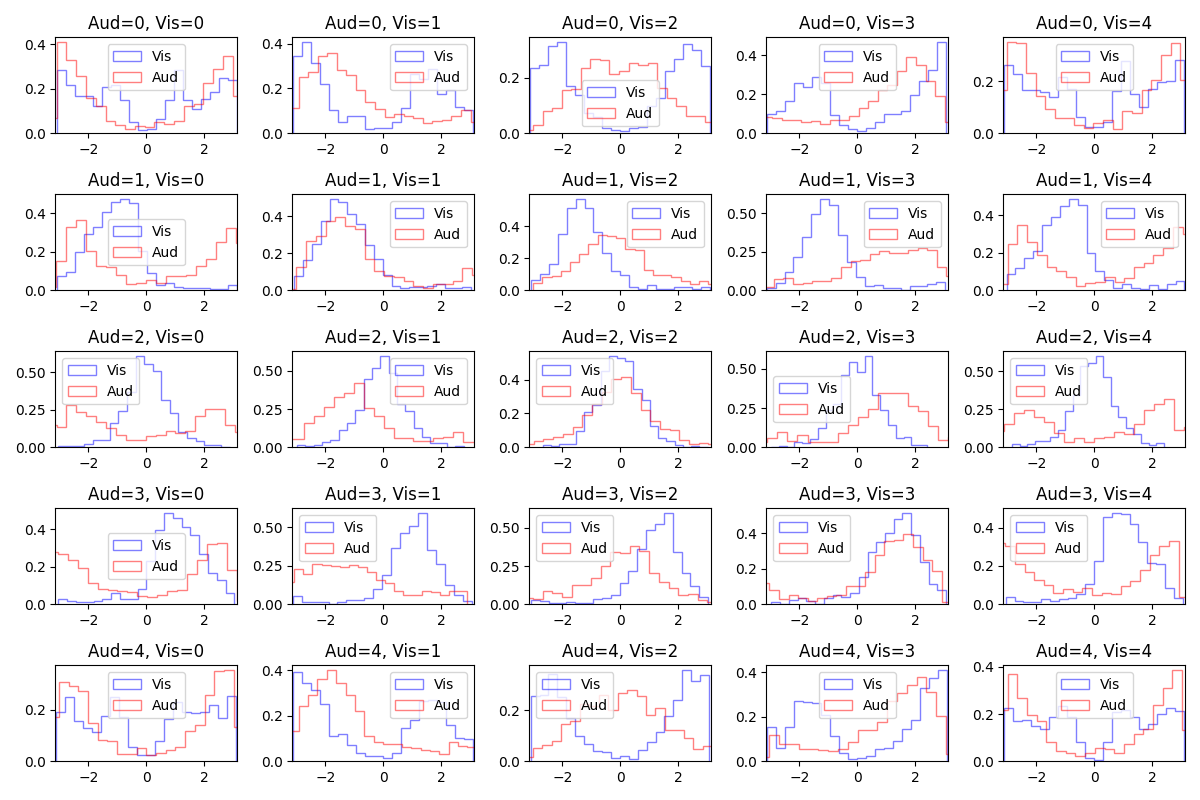
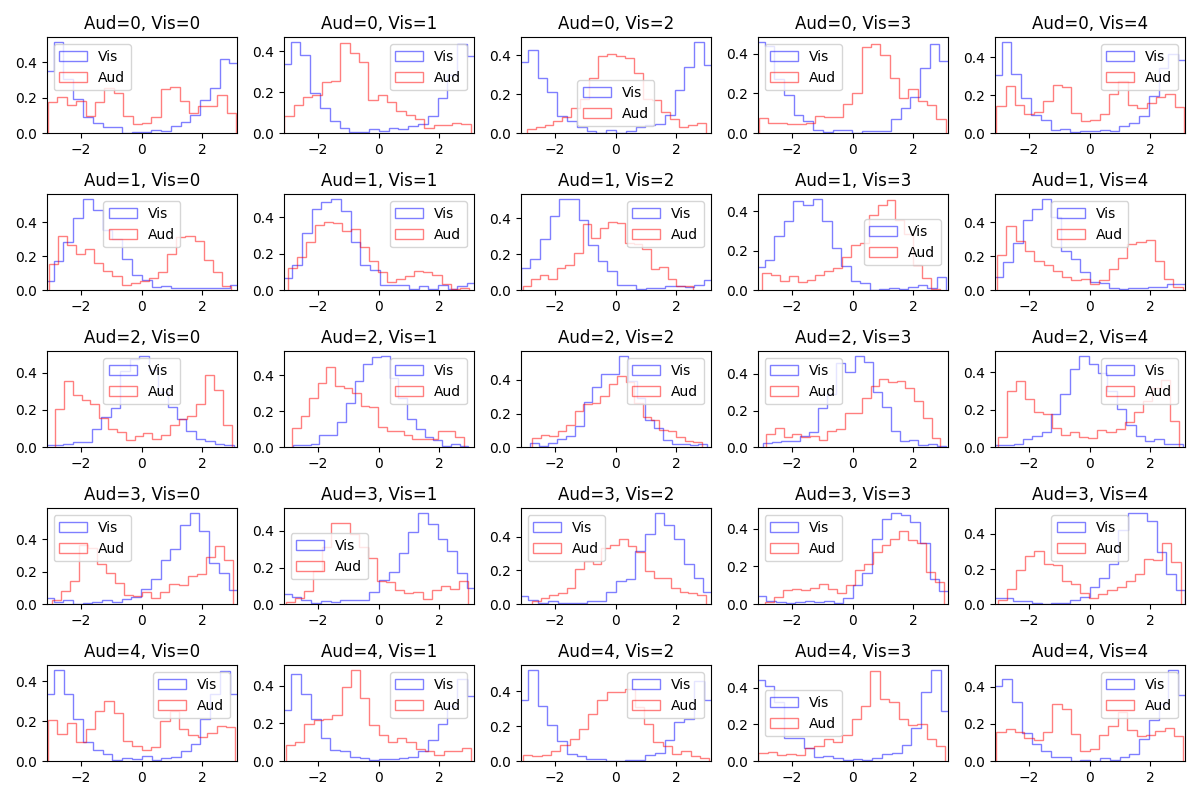
refactor code for consistent function signatures

diff --git a/von_mises_causal_inference.py b/von_mises_causal_inference.py
@@ -54,10 +54,10 @@ class VonMisesCausalInference(causal_inference.CausalInference):
         self.simulate = simulate
         self.s_domain = np.linspace(-np.pi, np.pi, 1000).reshape(1, 1, 1, -1)
 
-    def fusion_estimate(self, x_a, x_v, sigma_a, sigma_v, mu_p, sigma_p, simulate=False, return_sigma=False):
+    def fusion_estimate(self, x_v, x_a, sigma_v, sigma_a, mu_p, sigma_p, simulate=False, return_sigma=False):
         """
         Compute the MAP estimate in the fusion case (combined sensory processing).
-        The posterior p(s|x_a, x_v) \propto p(x_a, x_v|s)p(s) = p(x_a|s)p(x_v|s)p(s) with p(s) as the
+        The posterior p(s|x_v, x_a) \propto p(x_v, x_a|s)p(s) = p(x_a|s)p(x_v|s)p(s) with p(s) as the
         prior and p(x_a|s), p(x_v|s) as the likelihoods.
         The prior is currently assumed uniform and its parameters are not used.
 
@@ -80,8 +80,8 @@ class VonMisesCausalInference(causal_inference.CausalInference):
             return mu_c, kappa_c
         return mu_c
     
-    def fusion_posterior_params(self, s_a, s_v, sigma_a, sigma_v, mu_p, sigma_p):
-        fused_est_mu, fused_est_sigma  = self.fusion_estimate(x_a=s_a, x_v=s_v, 
+    def fusion_posterior_params(self, s_v, s_a, sigma_v, sigma_a, mu_p, sigma_p):
+        fused_est_mu, fused_est_sigma  = self.fusion_estimate(x_v=s_v, x_a=s_a, 
                                                             sigma_a=sigma_a, 
                                                             sigma_v=sigma_v, 
                                                             mu_p=mu_p, 
@@ -388,7 +388,7 @@ if __name__ == "__main__":
     num_sim = 1000
     stimuli_values = np.linspace(-np.pi, np.pi, 5) 
     # Parameters for the von Mises distributions
-    kappa_v, kappa_a = 4, 2  # Concentration parameters for visual and auditory inputs
+    kappa_v, kappa_a = 2, 1  # Concentration parameters for visual and auditory inputs
     mu_p, kappa_p = None, None  # Uniform stimulus prior
     pi_c = 0.23  # Prior probability of the common cause hypothesis
     s_vs, s_as = np.meshgrid(stimuli_values, stimuli_values, indexing='ij')
@@ -400,24 +400,23 @@ if __name__ == "__main__":
     # Causal inference loop:
     model = VonMisesCausalInference()
     # Compute the posterior estimates by simulation (find \hat{s_v}=\hat{s_a} for all sample pairs (x_v, x_a))
-    fused_est = model.fusion_estimate(x_a, x_v, kappa_a, kappa_v, mu_p, kappa_p)
-    print(f'Means for x_vs: {circmean(x_v[:, 0, 0],low=-np.pi, high=np.pi), circmean(x_v[:, 0, 1],low=-np.pi, high=np.pi), circmean(x_v[:, 0, 2],low=-np.pi, high=np.pi), circmean(x_v[:, 0, 3],low=-np.pi, high=np.pi), circmean(x_v[:, 0, 4],low=-np.pi, high=np.pi)}')
-    print(f'Means for x_as: {circmean(x_a[:, 0, 0],low=-np.pi, high=np.pi), circmean(x_a[:, 0, 1],low=-np.pi, high=np.pi), circmean(x_a[:, 0, 2],low=-np.pi, high=np.pi), circmean(x_a[:, 0, 3],low=-np.pi, high=np.pi), circmean(x_a[:, 0, 4],low=-np.pi, high=np.pi)}')
+    fused_est = model.fusion_estimate(x_v, x_a, kappa_v, kappa_a, mu_p, kappa_p)
     # Compute the posterior estimates using the VM approx
-    fused_est_mu, fused_est_kappa = model.fusion_posterior_params(s_a=s_as, s_v=s_vs, 
-                                                                sigma_a=kappa_a, sigma_v=kappa_v, 
+    fused_est_mu, fused_est_kappa = model.fusion_posterior_params(s_v=s_vs, s_a=s_as, 
+                                                                sigma_v=kappa_v, sigma_a=kappa_a, 
                                                                 mu_p=mu_p, sigma_p=kappa_p)
     # Generate analytic samples from the fusion posterior distribution.
     fused_est_approx = vonmises.rvs(kappa=fused_est_kappa, loc=fused_est_mu,
                                     size=(num_sim, stimuli_values.size, stimuli_values.size))
 
     # Plot histograms for comparison
-    plt.hist(fused_est_approx[:, 0, 2], bins=65, label='approx', alpha=0.5, edgecolor='b', density=True, histtype='step')
-    plt.hist(fused_est[:, 0, 2], bins=65, label='numeric', alpha=0.5, edgecolor='k', density=True, histtype='step')
-    # plt.hist(x_v[:, 0, 2], bins=65, label='x_v', alpha=0.5, edgecolor='g', density=True, histtype='step')
-    # plt.hist(x_a[:, 0, 2], bins=65, label='x_a', alpha=0.5, edgecolor='r', density=True, histtype='step')
+    v_idx, a_idx = 0, 2
+    plt.hist(fused_est_approx[:, v_idx, a_idx], bins=65, label='approx', alpha=0.5, edgecolor='b', density=True, histtype='step')
+    plt.hist(fused_est[:, v_idx, a_idx], bins=65, label='numeric', alpha=0.5, edgecolor='k', density=True, histtype='step')
+    # plt.hist(x_v[:, v_idx, a_idx], bins=65, label='x_v', alpha=0.5, edgecolor='g', density=True, histtype='step')
+    # plt.hist(x_a[:, v_idx, a_idx], bins=65, label='x_a', alpha=0.5, edgecolor='r', density=True, histtype='step')
     plt.legend()
-    plt.title(f'Von Mises approximation and simulated distribution of mean responses s_v, s_a={stimuli_values[0], stimuli_values[2]}')
+    plt.title(f'Von Mises approximation and simulated distribution of mean responses s_v, s_a={stimuli_values[v_idx], stimuli_values[a_idx]}')
     plt.show()
     segregated_est_v = model.segregation_estimate(x=x_v, mu_p=mu_p, sigma=kappa_v, sigma_p=kappa_p)
     # TODO: check concentration for distribution of means in Von Mises 

diff --git a/gaussian_causal_inference.py b/gaussian_causal_inference.py
@@ -26,10 +26,10 @@ class GaussianCausalInference(causal_inference.CausalInference):
         """
         return (x * sigma_p**2 + mu_p * sigma**2) / (sigma**2 + sigma_p**2)
 
-    def fusion_estimate(self, x_a, x_v, sigma_a, sigma_v, mu_p, sigma_p, return_sigma=False):
+    def fusion_estimate(self, x_v, x_a, sigma_v, sigma_a, mu_p, sigma_p, return_sigma=False):
         """
         Compute the MAP estimate in the fusion case (combined sensory processing).
-        The posterior p(s|x_a, x_v) \propto p(x_a, x_v|s)p(s) = p(x_a|s)p(x_v|s)p(s) with p(s) as the
+        The posterior p(s|x_v, x_a) \propto p(x_v, x_a|s)p(s) = p(x_a|s)p(x_v|s)p(s) with p(s) as the
         prior and p(x_a|s), p(x_v|s) as the likelihoods.
 
         Parameters:
@@ -49,10 +49,10 @@ class GaussianCausalInference(causal_inference.CausalInference):
             return num / denom, 1/np.sqrt((1/sigma_a**2)+(1/sigma_v**2)+(1/sigma_p**2))
         return num / denom
     
-    def fusion_posterior_params(self, s_a, s_v, sigma_a, sigma_v, mu_p, sigma_p):
-        fused_est_mu, fused_est_sigma  = self.fusion_estimate(x_a=s_a, x_v=s_v, 
-                                                            sigma_a=sigma_a, 
+    def fusion_posterior_params(self, s_v, s_a, sigma_v, sigma_a, mu_p, sigma_p):
+        fused_est_mu, fused_est_sigma  = self.fusion_estimate(x_v=s_v, x_a=s_a, 
                                                             sigma_v=sigma_v, 
+                                                            sigma_a=sigma_a, 
                                                             mu_p=mu_p, 
                                                             sigma_p=sigma_p,
                                                             return_sigma=True)

diff --git a/gaussian_fusion_test.py b/gaussian_fusion_test.py
@@ -19,9 +19,9 @@ x_a = norm.rvs(loc=s_as, scale=sigma_a, size=(num_sim, stimuli_values.size, stim
 
 model = gaussian_causal_inference.GaussianCausalInference()
 sim_model = gaussian_causal_inference.GaussianCausalInference(simulate=True)
-fused_est_mu, fused_est_sigma  = model.fusion_posterior_params(s_a=s_as, s_v=s_vs, 
-                                                                           sigma_a=sigma_a, 
+fused_est_mu, fused_est_sigma  = model.fusion_posterior_params(s_v=s_vs, s_a=s_as, 
                                                                            sigma_v=sigma_v, 
+                                                                           sigma_a=sigma_a, 
                                                                            mu_p=mu_p, 
                                                                            sigma_p=sigma_p)
 # compute optimal combined estimate by sampling from posterior distribution

diff --git a/causal_inference.py b/causal_inference.py
@@ -10,7 +10,7 @@ class CausalInference(abc.ABC):
         pass
 
     @abc.abstractmethod
-    def fusion_estimate(self, x_a, x_v, sigma_a, sigma_v, mu_p, sigma_p, return_sigma=False):
+    def fusion_estimate(self, x_v, x_a, sigma_a, sigma_v, mu_p, sigma_p, return_sigma=False):
         pass
 
     @abc.abstractmethod
